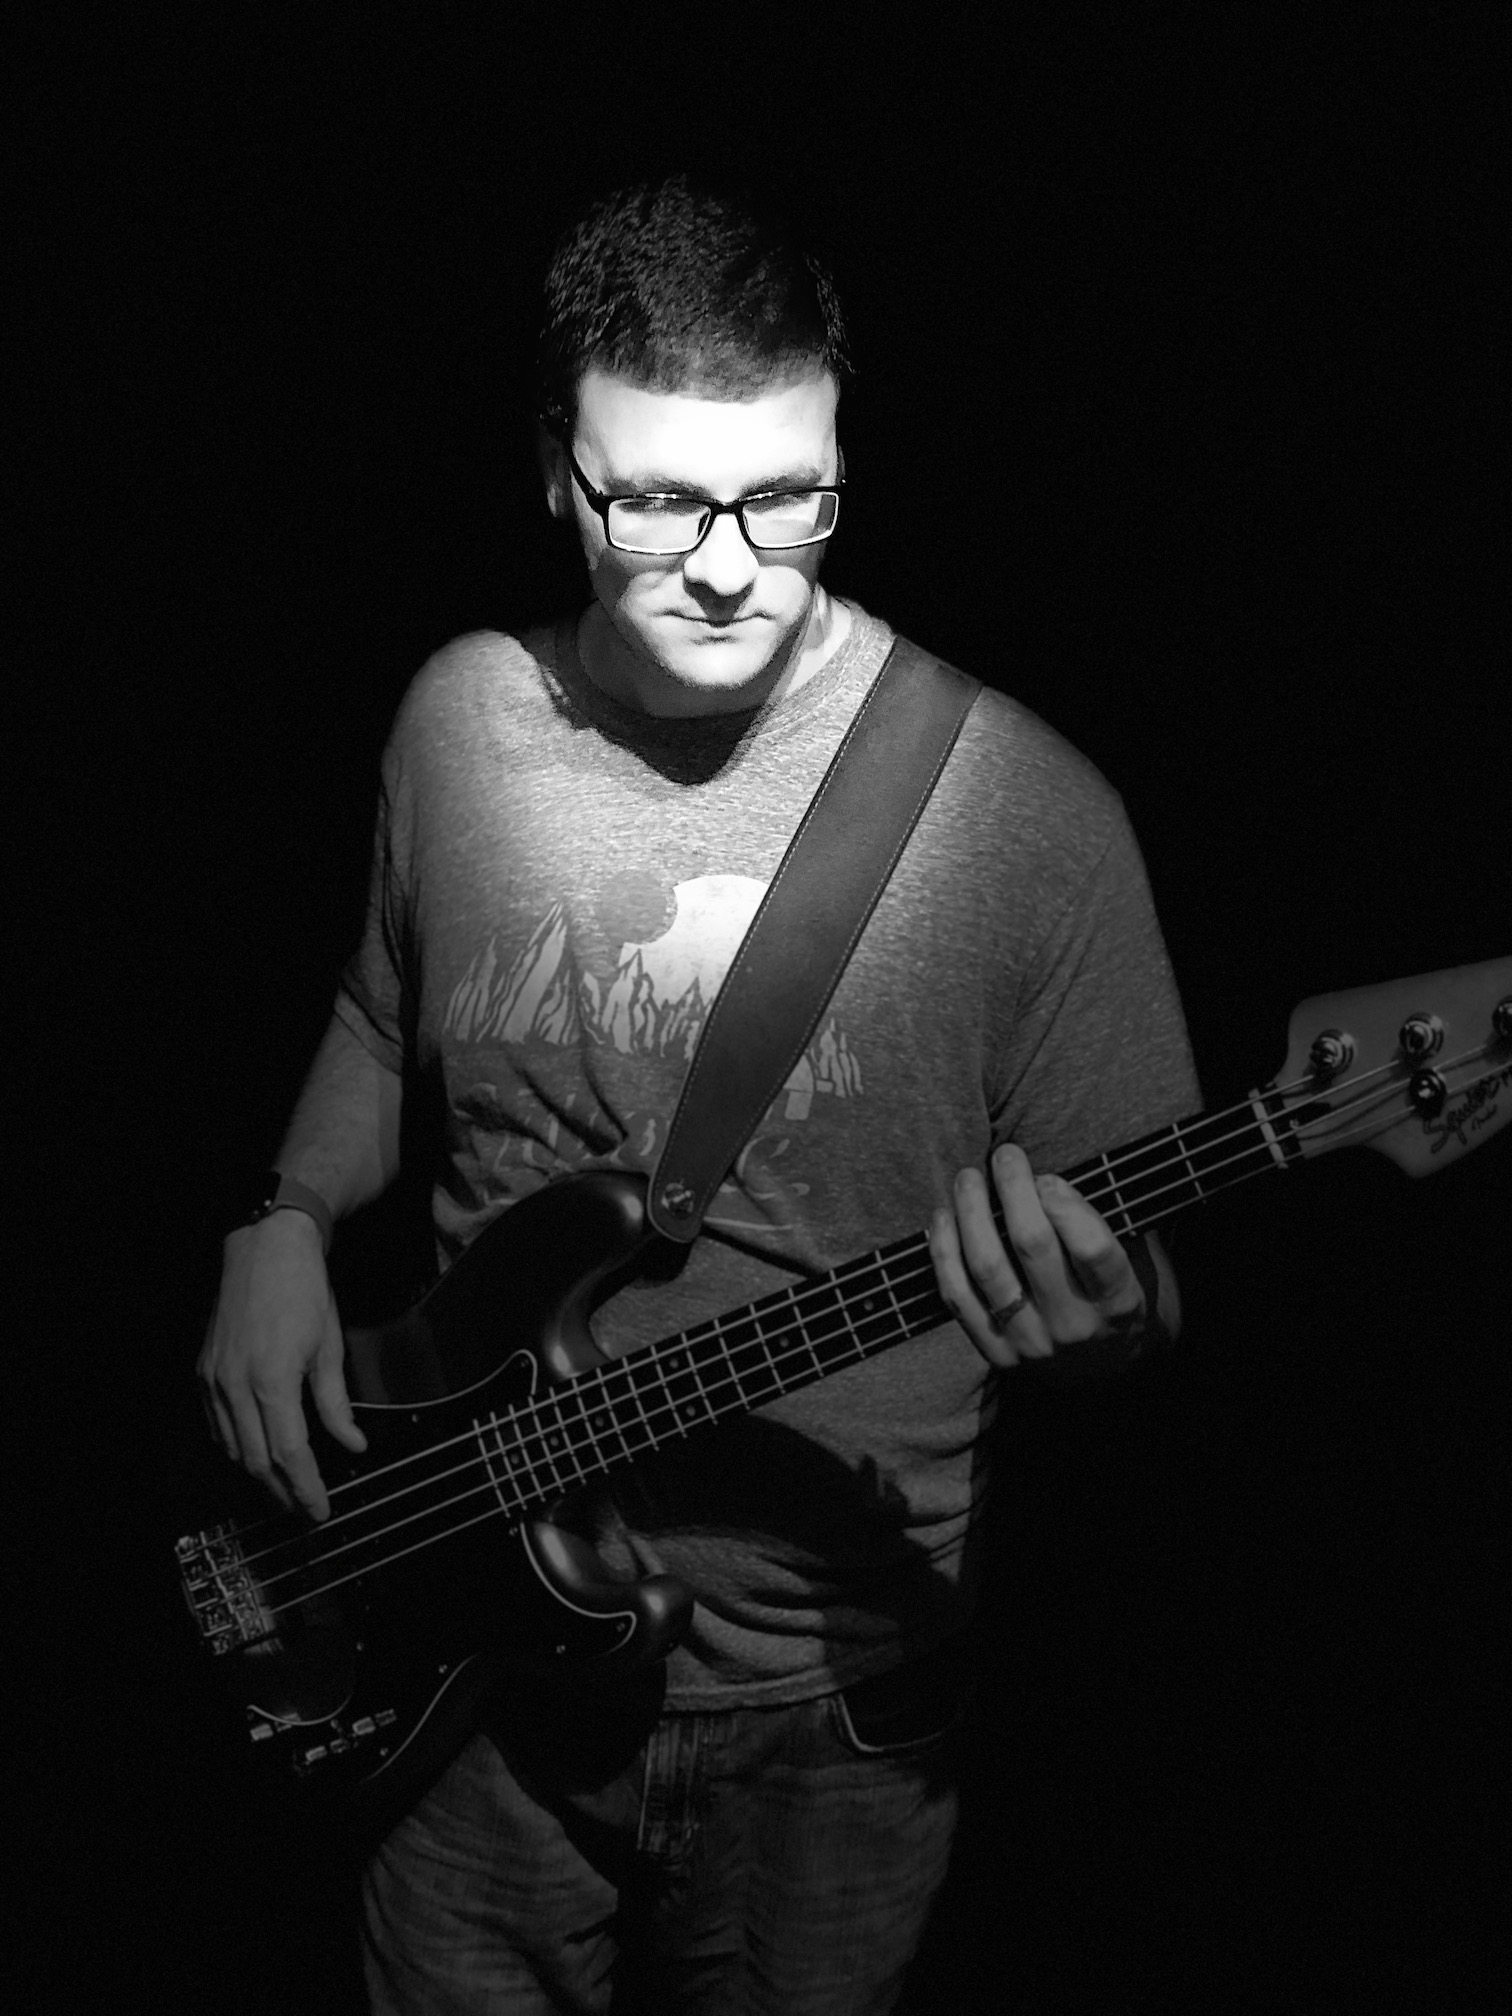
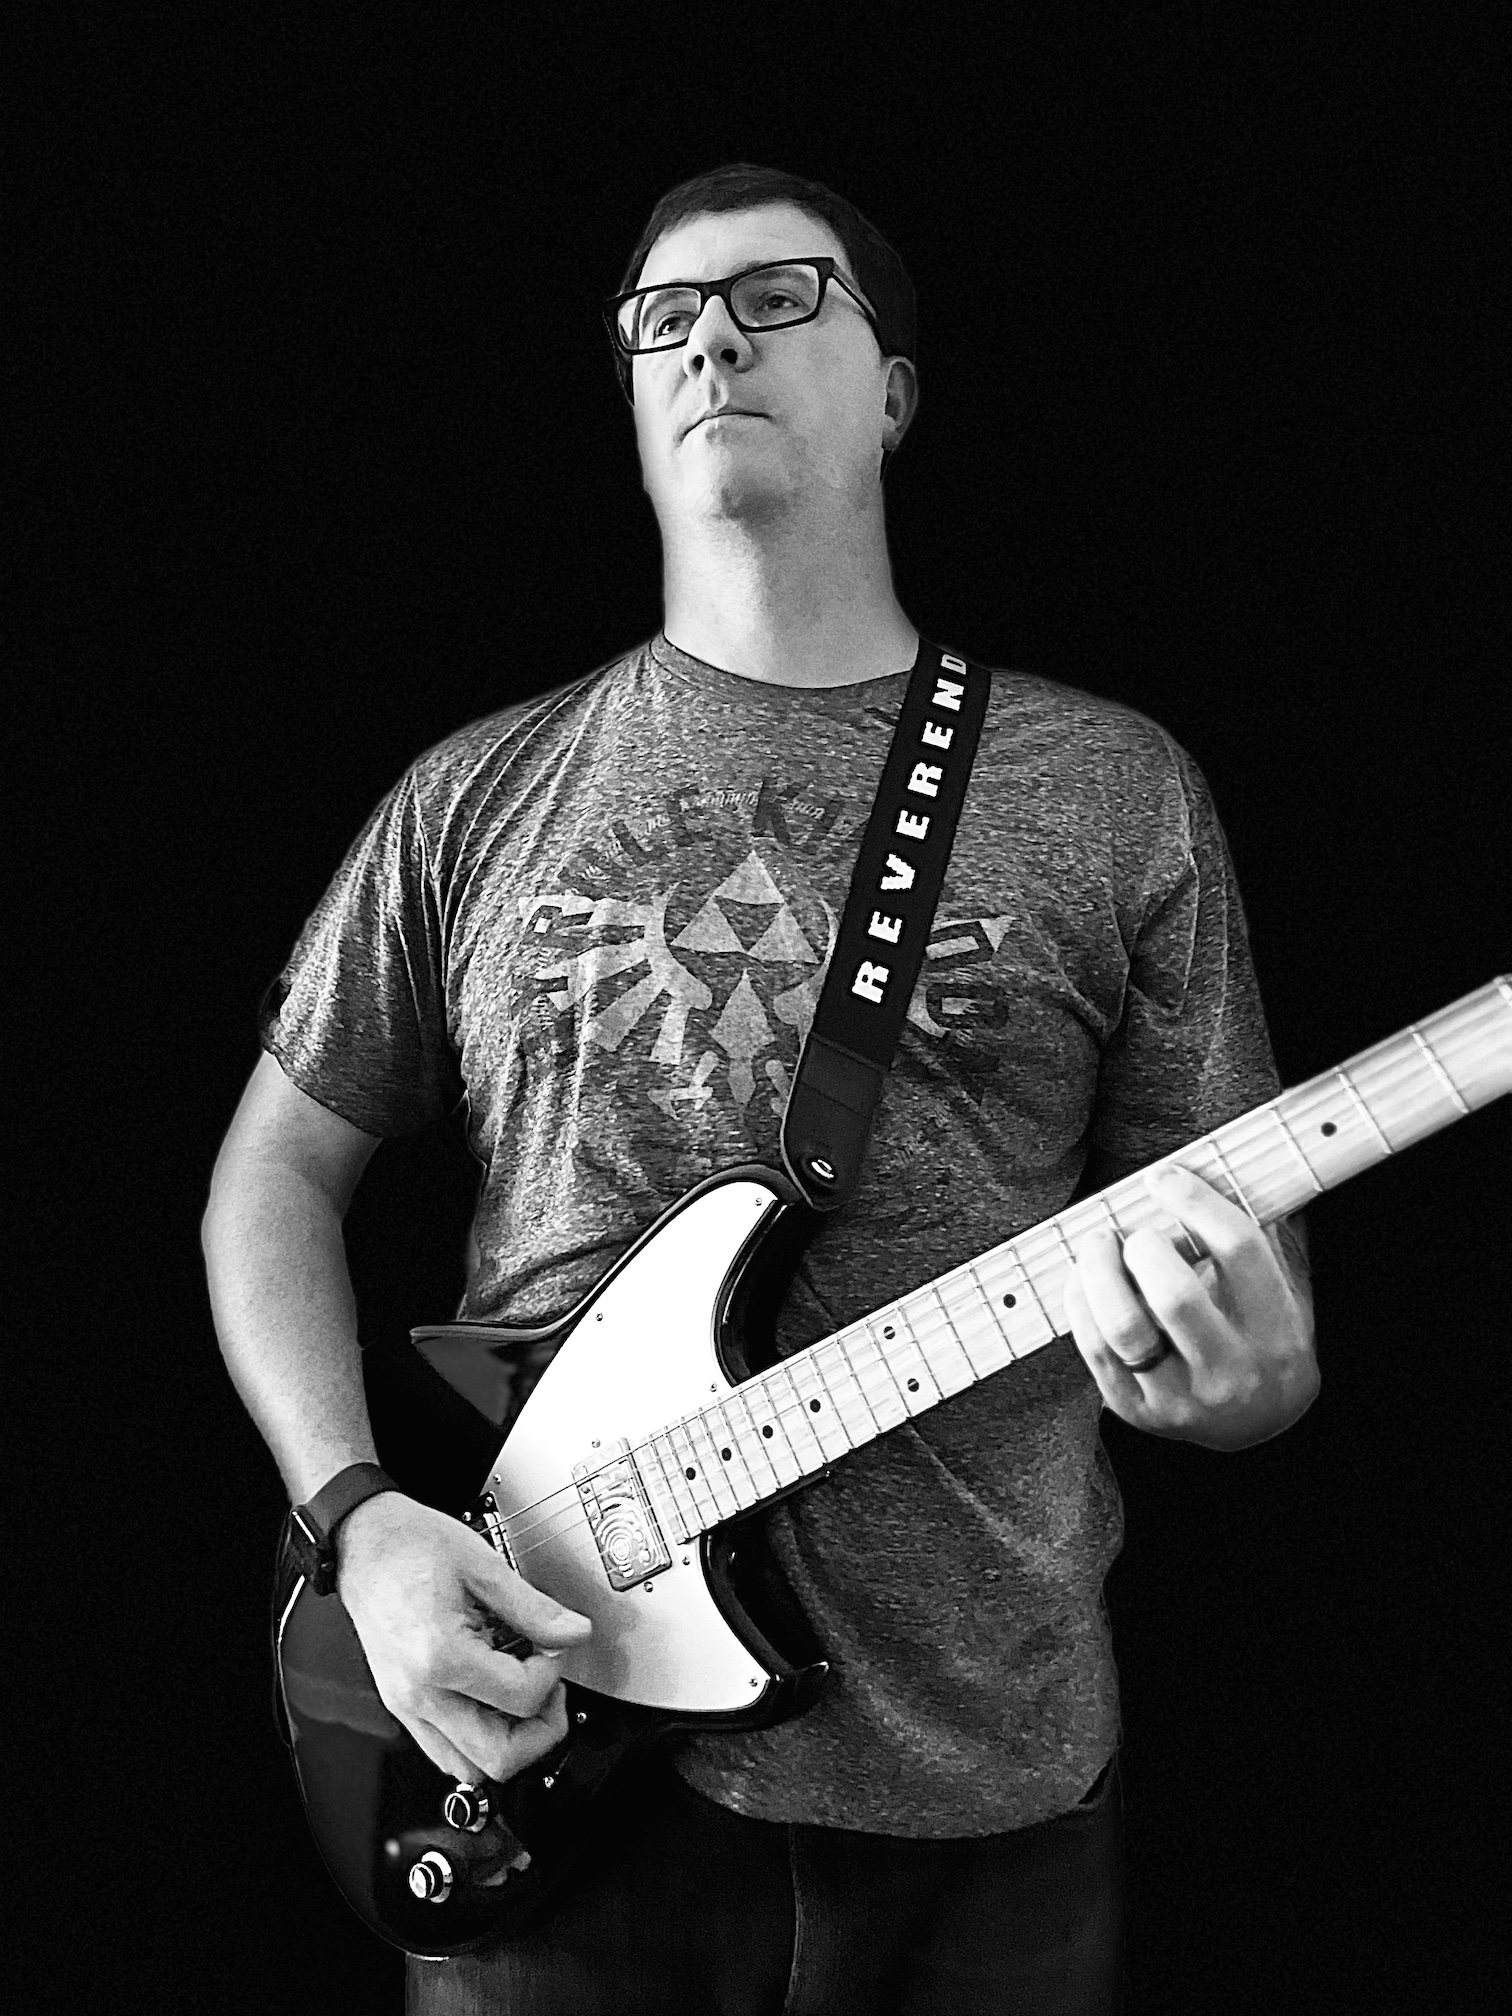
Updated website with new photos and information.

diff --git a/_includes/services.html b/_includes/services.html
@@ -8,6 +8,15 @@
         <div class="row">
           <div class="col-lg-2 col-lg-offset-1">
             <div class="portfolio-item">
+                <img class="img-portfolio img-responsive" src="img/portfolio-4.jpg">
+              <div class="portfolio-item-info">
+                <strong>Kurt Boldt</strong>
+                <p>Bass</p>
+              </div>
+            </div>
+          </div>
+          <div class="col-lg-2">
+            <div class="portfolio-item">
                 <img class="img-portfolio img-responsive" src="img/portfolio-2.jpg">
               <div class="portfolio-item-info">
                 <strong>Matt John</strong>
@@ -20,7 +29,7 @@
                 <img class="img-portfolio img-responsive" src="img/portfolio-5.jpg">
               <div class="portfolio-item-info">
                 <strong>Garrison Locke</strong>
-                <p>Bass</p>
+                <p>Guitar, Vocals</p>
               </div>
             </div>
           </div>
@@ -39,15 +48,6 @@
               <div class="portfolio-item-info">
                 <strong>Greg McGee</strong>
                 <p>Lead Guitar</p>
-              </div>
-            </div>
-          </div>
-          <div class="col-lg-2">
-            <div class="portfolio-item">
-                <img class="img-portfolio img-responsive" src="img/portfolio-4.jpg">
-              <div class="portfolio-item-info">
-                <strong>Hugh Willard</strong>
-                <p>Guitar, Vocals</p>
               </div>
             </div>
           </div>

diff --git a/_includes/header.html b/_includes/header.html
@@ -3,14 +3,9 @@
     <img style="border: 10px solid #FFF;" src="/img/almost-there-album-cover.jpg" width="400" height="400" alt: "" />
     <p style="font-size: 1.5em; font-weight: bold; margin-top: 10px;">NOW AVAILABLE</p>
     <div class="container text-center">
-      <div class="row row-cols-3">
-        <div class="col-md-2 col-md-offset-3">
+      <div class="row">
           <a target="_blank" href="https://open.spotify.com/album/0Lx1HffZhlsXR7zYr4P1Ji"><img width="75" height="75" src="/img/spotify.png"></a>
-        </div>
-        <div class="col-md-2">
           <a target="_blank" href="https://music.apple.com/us/album/almost-there/1634810824?uo=4"><img width="75" height="75" src="/img/apple-music.png"></a>
-        </div>
-        <div class="col-md-2">
           <a target="_blank" href="https://www.youtube.com/watch?v=9AVqqpuDBOQ&list=OLAK5uy_kcfzeQxxf1FTGuMogF6dWGAkiRqadqXGw&ab_channel=Thursday%27sFlight-Topic"><img width="75" height="75" src="/img/youtube.png"></a>
         </div>
       </div>

diff --git a/_includes/about.html b/_includes/about.html
@@ -3,8 +3,8 @@
     <div class="row">
       <div class="col-lg-12 text-center">
         <p class="lead" style="text-align: center;">
-          Thursday's Flight is based in Holly Springs, NC and is available for private parties as well as charity and community events.
-          <br />Please contact us for booking inquiries.
+          Thursday's Flight is based in Holly Springs, NC and is available for private parties as well as charity and community events.  We perform original music as well as covers from the 70's, 80's, 90's, and 2000's.
+          <br /><br />Please contact us for booking inquiries.
         </p>
       </div>
     </div>

diff --git a/_includes/navigation.html b/_includes/navigation.html
@@ -9,15 +9,15 @@
       <a href="#top" onclick = $("#menu-close").click(); >Home</a>
     </li>-->
     <li>
-      <a href="#music" onclick = $("#menu-close").click(); >Music</a>
+      <a href="#music" onclick = $("#menu-close").click(); >Events</a>
     </li>
     <li>
       <a href="#services" onclick = $("#menu-close").click(); >Band Members</a>
     </li>
-    <li>
+    <!--<li>
       <a href="#about" onclick = $("#menu-close").click(); >Bio</a>
     </li>
-    <!--<li>
+    <li>
       <a href="#portfolio" onclick = $("#menu-close").click(); >Photos</a>
     </li>-->
     <li>

diff --git a/_includes/footer.html b/_includes/footer.html
@@ -20,7 +20,7 @@
             <a href="https://facebook.com/{{ site.facebook_page }}"><i class="fa fa-facebook fa-fw fa-3x"></i></a>
           </li>
           <li>
-            <a href="https://reverbnation.com/{{ site.reverbnation_username }}"><i class="fa fa-music fa-fw fa-3x"></i></a>
+            <a href="https://distrokid.com/hyperfollow/{{ site.hyperfollow_url }}"><i class="fa fa-music fa-fw fa-3x"></i></a>
           </li>
           <li>
             <a href="https://youtube.com/channel/{{ site.youtube_channel }}"><i class="fa fa-youtube fa-fw fa-3x"></i></a>
